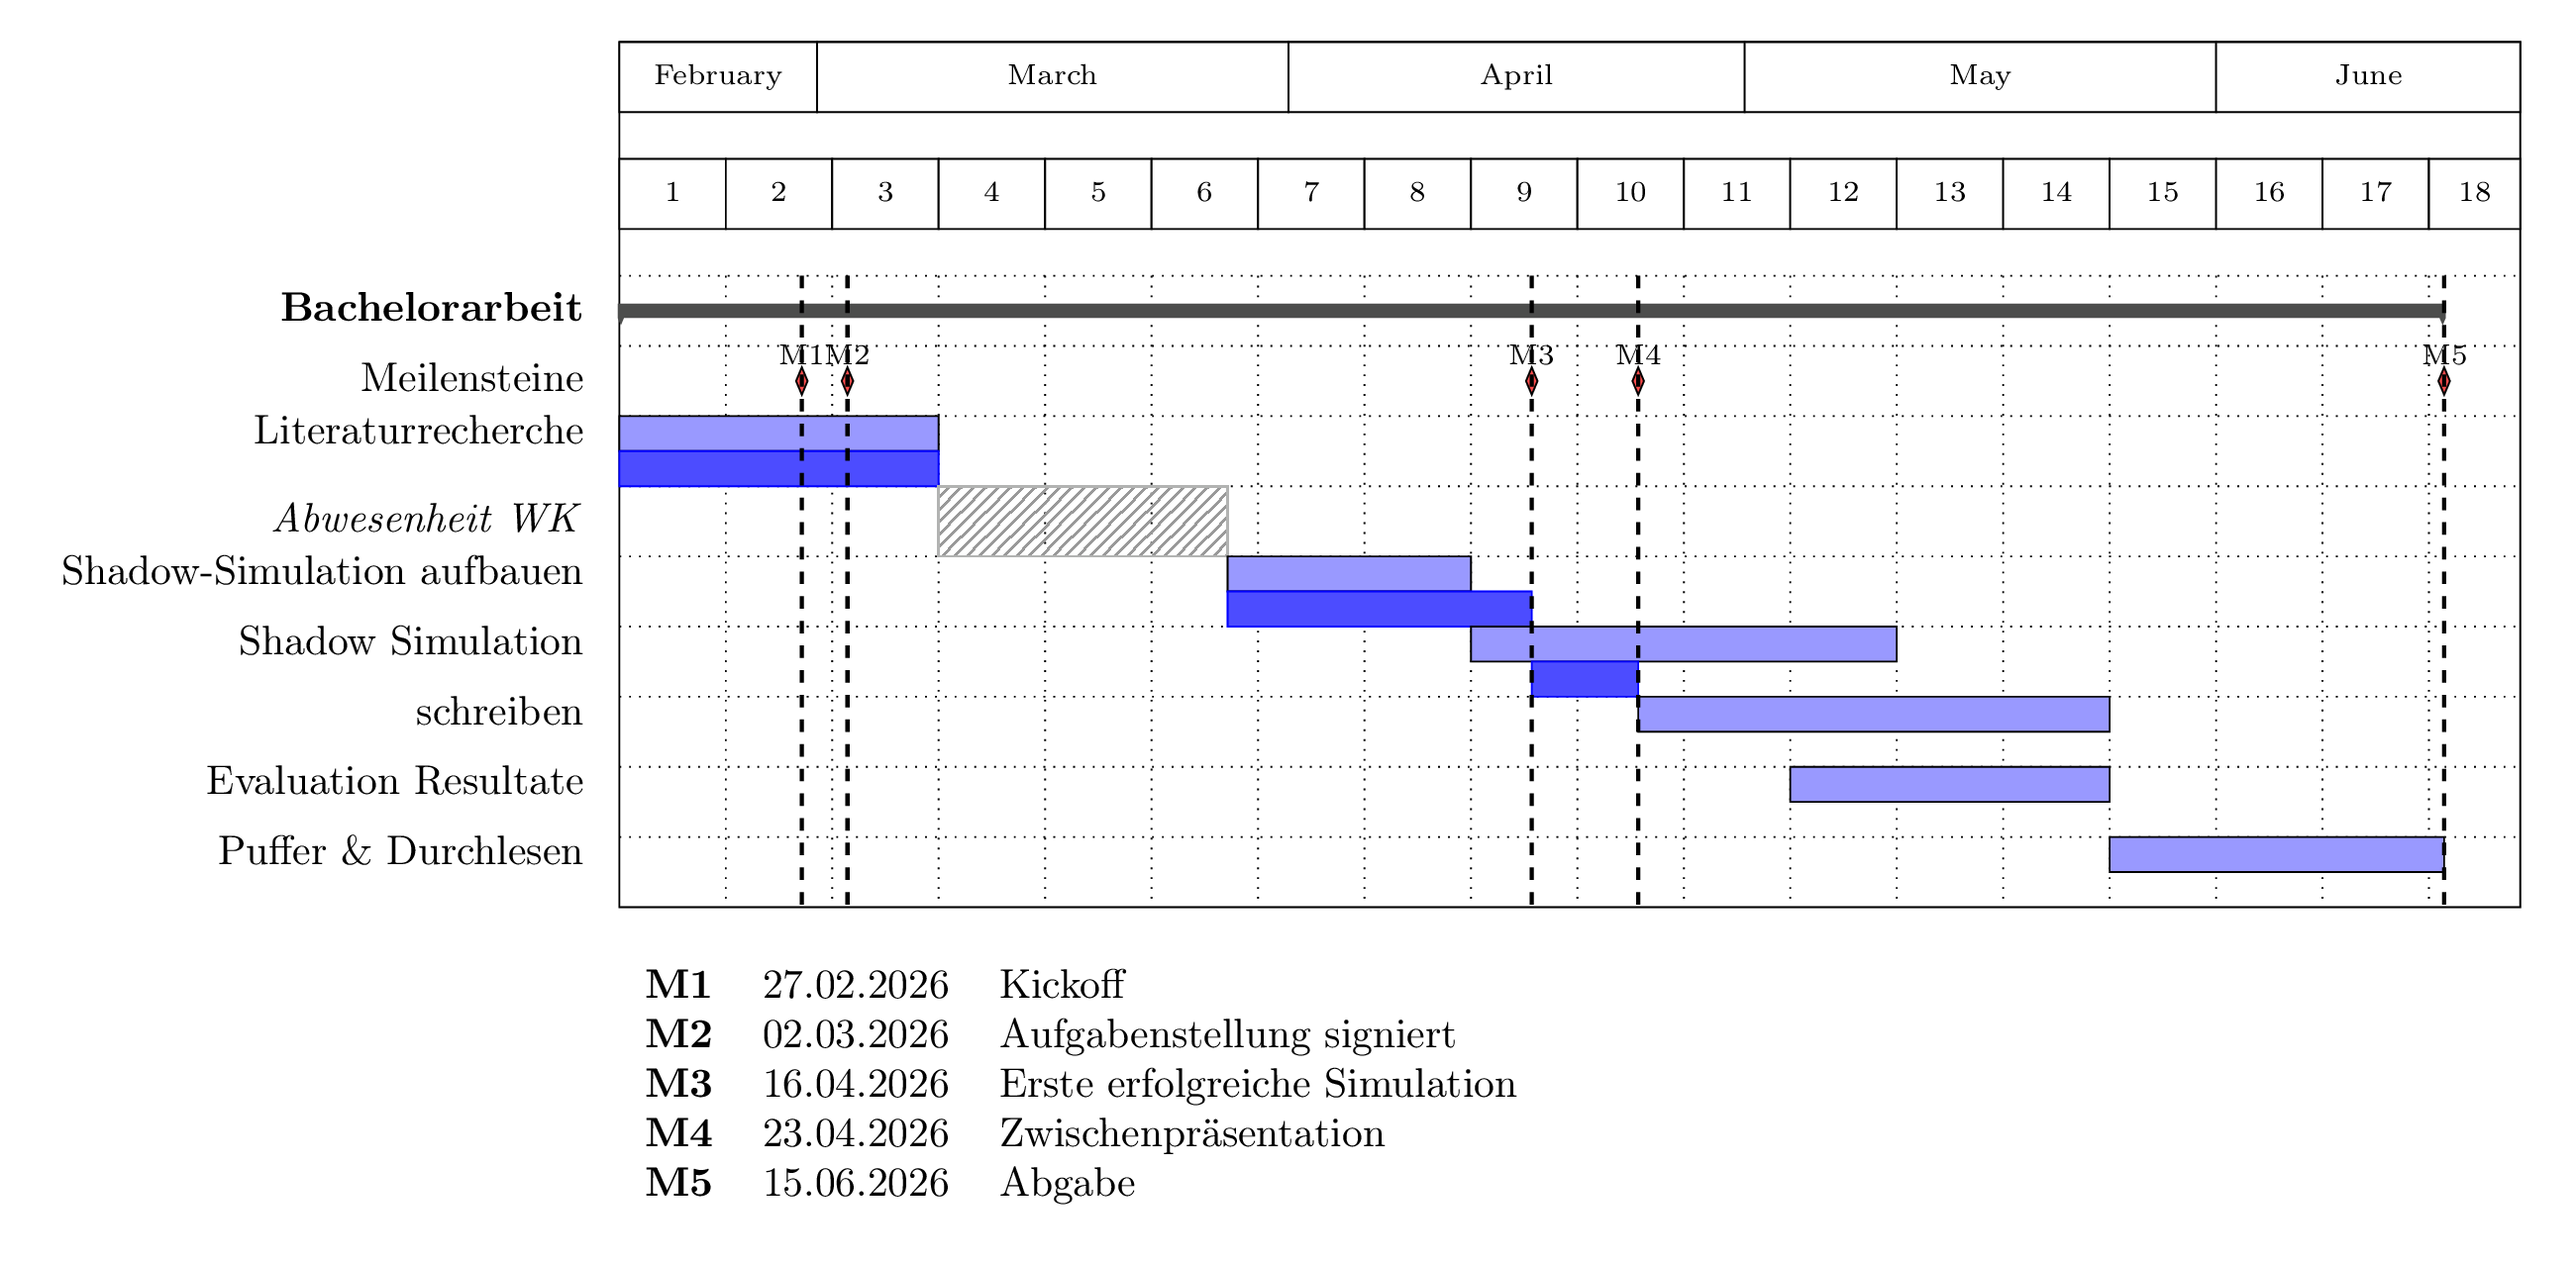
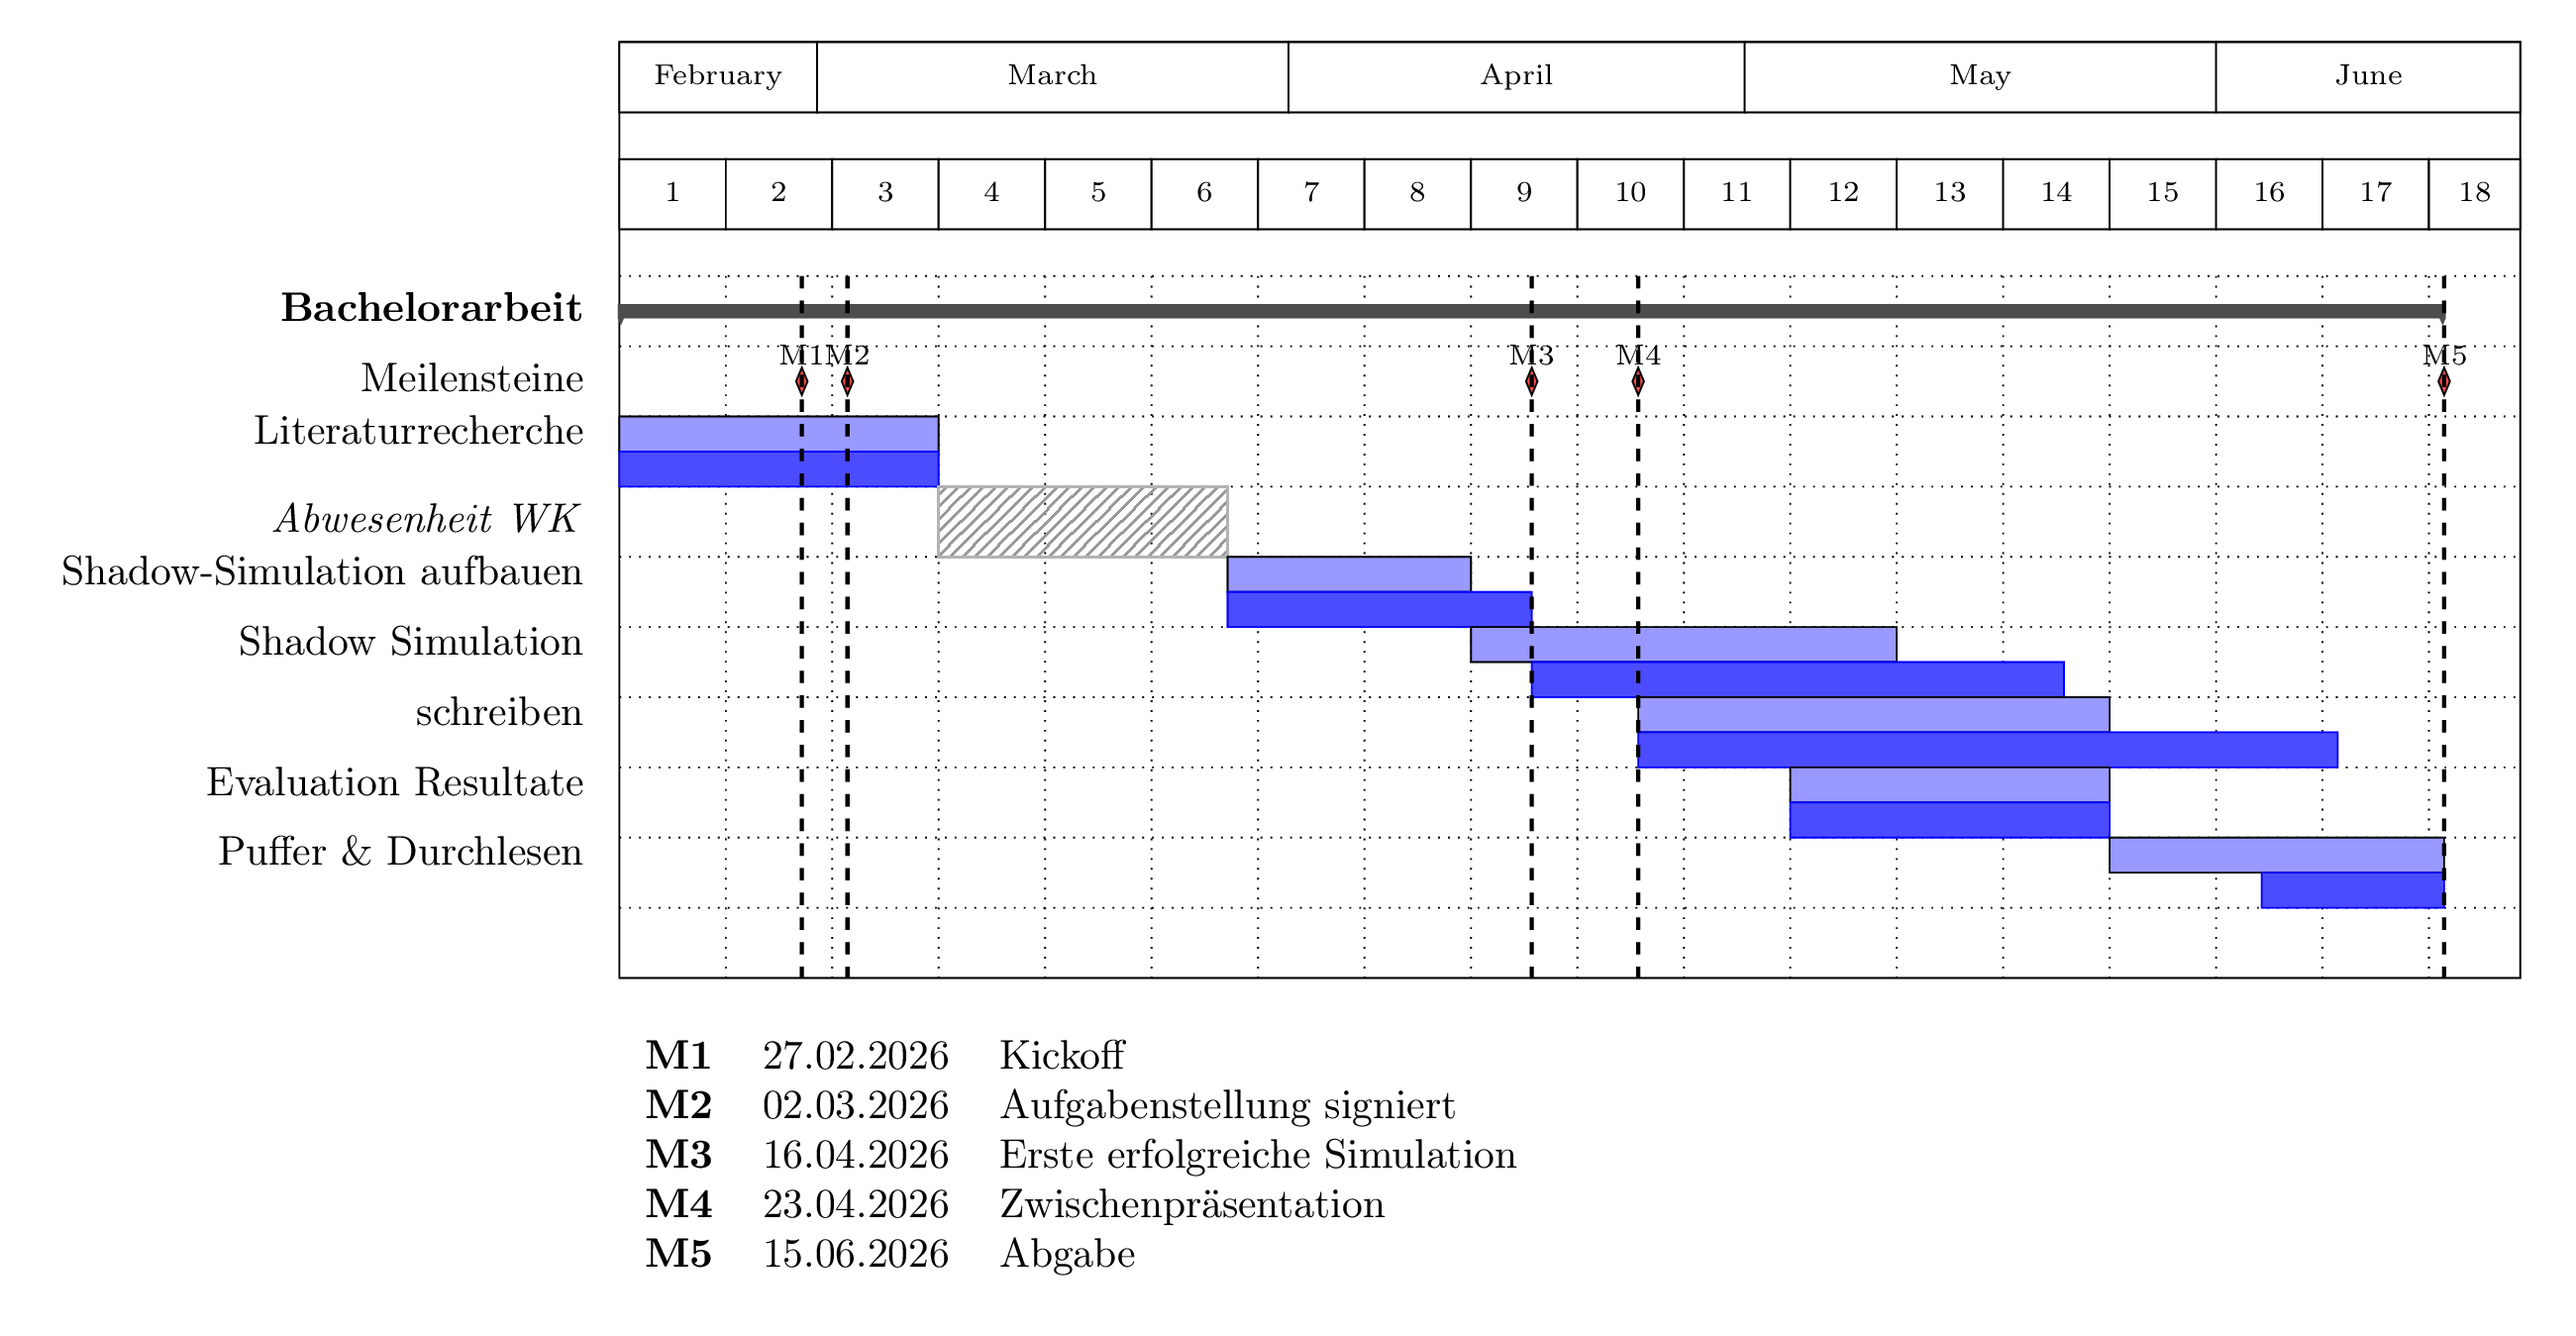
update projektplan

diff --git a/src/thesis/figs/projektplan_body.tex b/src/thesis/figs/projektplan_body.tex
@@ -33,13 +33,16 @@
   \ganttbar[bar/.append style={fill=blue!70, draw=blue!100}, bar height=.5,bar top shift=0.5, inline]{}{2026-03-28}{2026-04-16} \\
 
   \ganttbar[bar height=.5,bar top shift = 0]{Shadow Simulation}{2026-04-13}{2026-05-10}
-  \ganttbar[bar/.append style={fill=blue!70, draw=blue!100}, bar height=.5,bar top shift=0.5, inline]{}{2026-04-17}{2026-04-23} \\
+  \ganttbar[bar/.append style={fill=blue!70, draw=blue!100}, bar height=.5,bar top shift=0.5, inline]{}{2026-04-17}{2026-05-21} \\
 
-  \ganttbar[bar height=.5,bar top shift = 0]{schreiben}{2026-04-24}{2026-05-24} \\
+  \ganttbar[bar height=.5,bar top shift = 0]{schreiben}{2026-04-24}{2026-05-24}
+  \ganttbar[bar/.append style={fill=blue!70, draw=blue!100}, bar height=.5,bar top shift=0.5, inline]{}{2026-04-24}{2026-06-08} \\
 
-  \ganttbar[bar height=.5,bar top shift = 0]{Evaluation Resultate}{2026-05-04}{2026-05-24} \\
+  \ganttbar[bar height=.5,bar top shift = 0]{Evaluation Resultate}{2026-05-04}{2026-05-24}
+  \ganttbar[bar/.append style={fill=blue!70, draw=blue!100}, bar height=.5,bar top shift=0.5, inline]{}{2026-05-04}{2026-05-24} \\
 
   \ganttbar[bar height=.5,bar top shift = 0]{Puffer \& Durchlesen}{2026-05-25}{2026-06-15}
+  \ganttbar[bar/.append style={fill=blue!70, draw=blue!100}, bar height=.5,bar top shift=0.5, inline]{}{2026-06-04}{2026-06-15}\\
 
   \ganttvrule{}{2026-02-27}
   \ganttvrule{}{2026-03-02}
